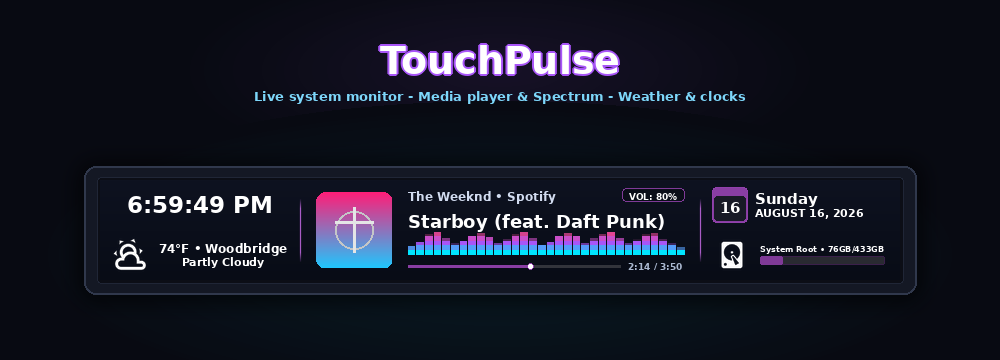
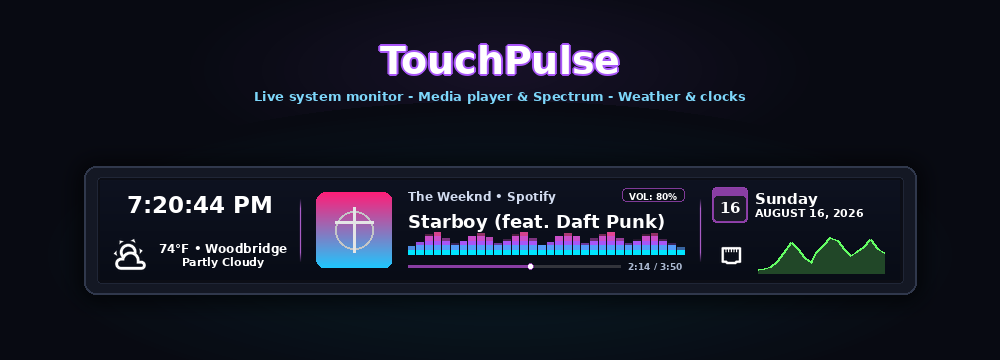
feat: add first-run preconfigured master preset with Network Live Graph, default bitmap2 background, and auto-focus sidebar

Changed region(s): [[0.713, 0.6417, 0.899, 0.7639], [0.124, 0.55, 0.248, 0.6111]]

diff --git a/actions/TouchBarInfoAction/TouchBarInfoAction.py b/actions/TouchBarInfoAction/TouchBarInfoAction.py
@@ -162,6 +162,67 @@ class TouchBarInfoAction(ActionBase):
         except Exception as e:
             log.warning(f"TouchPulse: Could not connect to ChangePage signal: {e}")
 
+        # Check for first-run unconfigured state to apply Master Preset
+        try:
+            settings = self.get_settings()
+            if settings is not None and not settings:
+                bg_path = "/mnt/Stuff/Streamdeck Icons/bitmap2.png"
+                if not os.path.isfile(bg_path):
+                    bundled_bg = os.path.expanduser(os.path.join(self.plugin_base.PATH, "assets", "bitmap2.png"))
+                    if os.path.isfile(bundled_bg):
+                        bg_path = bundled_bg
+
+                default_preset = {
+                    # Section A (Left): Split Mode
+                    "sec_a_mode": 1,
+                    "sec_a_top_widget": 7,                              # Digital Clock
+                    "sec_a_top_show_seconds": True,
+                    "sec_a_top_time_font_str": "DejaVu Sans Bold 25",
+                    "sec_a_bottom_widget": 8,                           # Live Weather
+                    "sec_a_bot_weather_location_name": "Woodbridge",
+                    "sec_a_bot_weather_lat": "38.65817",
+                    "sec_a_bot_weather_lon": "-77.2497",
+
+                    # Section B (Center): Full Media Player
+                    "sec_b_mode": 0,
+                    "sec_b_full_widget": 4,                             # Media Player
+                    "sec_b_full_media_player_id": "spotify",
+                    "sec_b_full_media_vol_target": 1,
+                    "sec_b_full_media_song_font_str": "DejaVu Sans Bold 20",
+                    "sec_b_full_media_dial_single": 0,                  # Track Control
+                    "sec_b_full_media_dial_left": 0,                    # Prev/Next
+                    "sec_b_full_media_dial_right": 1,                   # Volume
+
+                    # Section C (Right): Split Mode
+                    "sec_c_mode": 1,
+                    "sec_c_top_widget": 2,                              # Standalone Date Widget
+                    "sec_c_top_date_font_color": "#FFFFFFFF",
+                    "sec_c_top_date_app_cmd": "flatpak run org.gnome.Calendar",
+                    "sec_c_bottom_widget": 5,                           # Network Activity Widget
+                    "sec_c_bot_net_mode_idx": 1,                        # Live Bandwidth Graph
+                    "sec_c_bot_net_unit_idx": 0,                        # Bytes/s (KB/s, MB/s)
+
+                    # Background & Dividers
+                    "custom_bg_path": bg_path,
+                    "general_show_section_separators": True,
+                }
+                self.set_settings(default_preset)
+                log.info("TouchPulse: First-run master preset successfully applied!")
+
+                # Automatically focus TouchPulse action in StreamController sidebar
+                def _focus_sidebar():
+                    try:
+                        if hasattr(gl, "app") and hasattr(gl.app, "main_win") and hasattr(gl.app.main_win, "sidebar"):
+                            if hasattr(self, "input_ident") and self.input_ident is not None:
+                                gl.app.main_win.sidebar.load_for_identifier(self.input_ident, getattr(self, "state", 0))
+                    except Exception as ex:
+                        log.debug(f"TouchPulse: Could not auto-focus sidebar: {ex}")
+                    return False
+
+                GLib.idle_add(_focus_sidebar)
+        except Exception as e:
+            log.warning(f"TouchPulse: Error checking/applying first-run preset: {e}")
+
     def on_change_page(self, deck_controller, old_path: str, new_path: str):
         try:
             if not hasattr(self, "page") or self.page is None:
